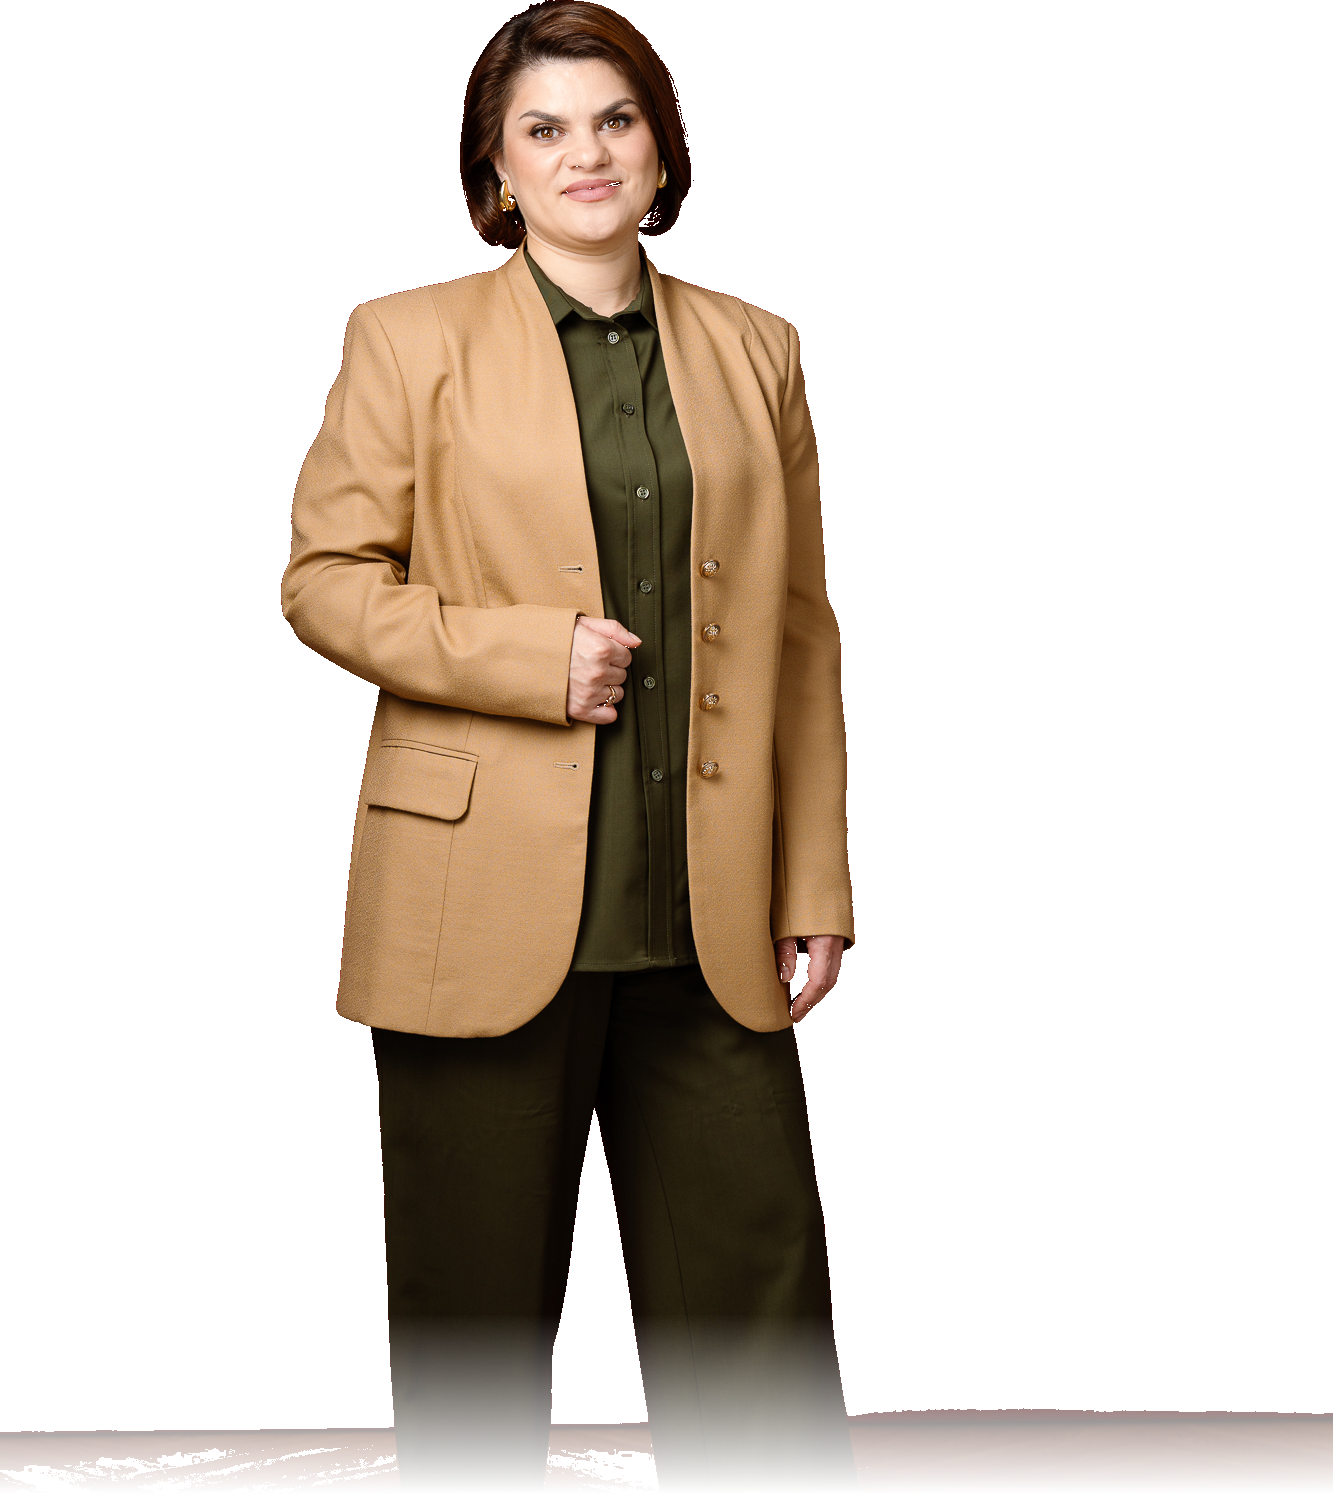
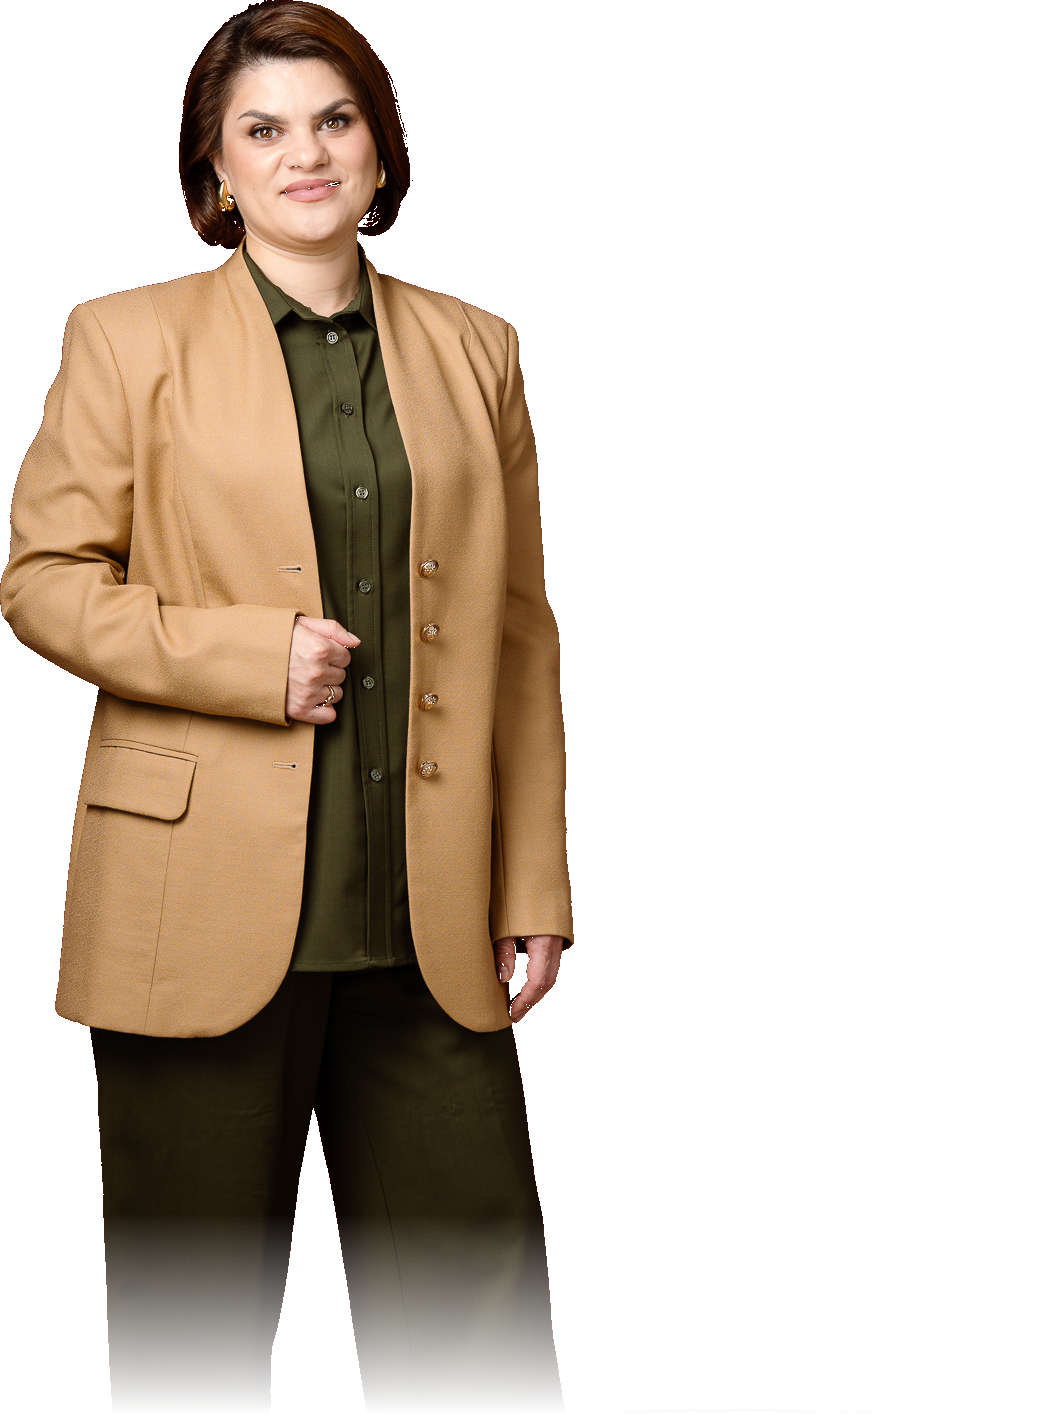
contacts: larger figure (960px), floor removed, higher crop

diff --git a/index.html b/index.html
@@ -1044,9 +1044,9 @@ ul.w li::before{border-left-color:#fff}
   <div style="position:absolute;left:1100px;top:0;width:820px;height:1080px">
     <div style="position:absolute;inset:0;background:radial-gradient(closest-side,rgba(46,125,107,.3),transparent) center 38% / 620px 760px no-repeat"></div>
     <div style="position:absolute;inset:0;
-      background:url(photos/speaker-cutout-7127.png) center 40px/760px auto no-repeat;
-      -webkit-mask-image:linear-gradient(to bottom,black 92%,transparent 100%);
-      mask-image:linear-gradient(to bottom,black 92%,transparent 100%)"></div>
+      background:url(photos/speaker-cutout-7127.png) center -20px/960px auto no-repeat;
+      -webkit-mask-image:linear-gradient(to bottom,black 94%,transparent 100%);
+      mask-image:linear-gradient(to bottom,black 94%,transparent 100%)"></div>
   </div>
 
 </div></div>

diff --git a/mediakit.html b/mediakit.html
@@ -1044,9 +1044,9 @@ ul.w li::before{border-left-color:#fff}
   <div style="position:absolute;left:1100px;top:0;width:820px;height:1080px">
     <div style="position:absolute;inset:0;background:radial-gradient(closest-side,rgba(46,125,107,.3),transparent) center 38% / 620px 760px no-repeat"></div>
     <div style="position:absolute;inset:0;
-      background:url(photos/speaker-cutout-7127.png) center 40px/760px auto no-repeat;
-      -webkit-mask-image:linear-gradient(to bottom,black 92%,transparent 100%);
-      mask-image:linear-gradient(to bottom,black 92%,transparent 100%)"></div>
+      background:url(photos/speaker-cutout-7127.png) center -20px/960px auto no-repeat;
+      -webkit-mask-image:linear-gradient(to bottom,black 94%,transparent 100%);
+      mask-image:linear-gradient(to bottom,black 94%,transparent 100%)"></div>
   </div>
 
 </div></div>
